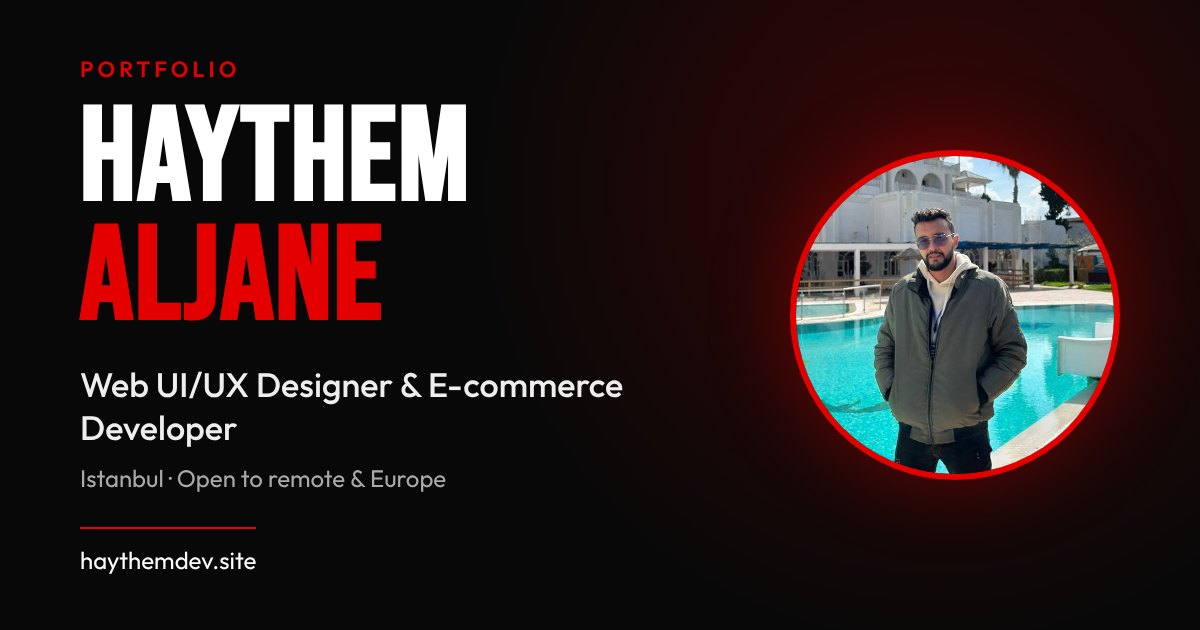
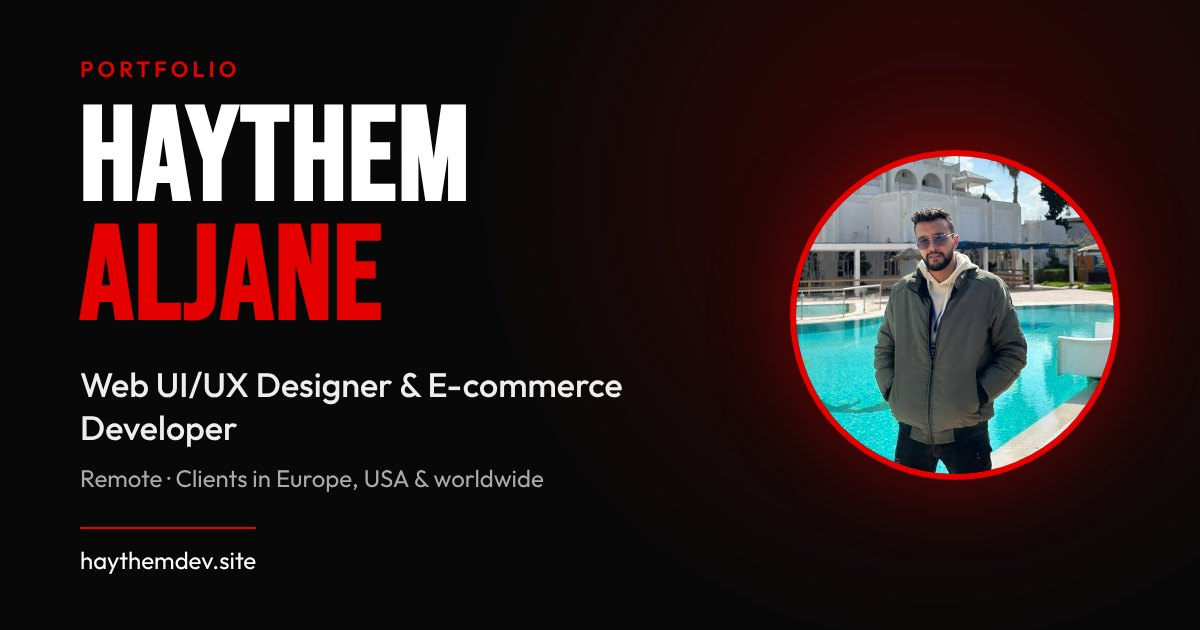
Position the site for remote, international clients
Replace Istanbul-specific wording with remote work for clients in
Europe, the USA and worldwide: homepage title, meta and social tags,
hero, about, contact and footer; structured data (no city address,
languages from the CV); case studies; Turkish page; demo credit links
and descriptions; share image.

Claude-Session: https://claude.ai/code/session_01RriRdgBVwXzwgPDqU6tjot

Changed region(s): [[0.0617, 0.7238, 0.4625, 0.7841], [0.2467, 0.6032, 0.5242, 0.6333]]

diff --git a/public/demos/sushi-by-skhiri/index.html b/public/demos/sushi-by-skhiri/index.html
@@ -11,21 +11,21 @@
   <link href="https://cdn.jsdelivr.net/npm/remixicon@4.3.0/fonts/remixicon.css" rel="stylesheet" />
   <title>Sushi by Skhiri | Demo by Haythem Aljane</title>
 <!-- SEO (data-ha-seo) -->
-<meta name="description" content="One-page sushi restaurant website with popular dishes, gallery, newsletter section, and scroll animations. Built by Haythem Aljane, web UI/UX designer in…">
+<meta name="description" content="One-page sushi restaurant website with popular dishes, gallery, newsletter section, and scroll animations. Built by Haythem Aljane, remote web UI/UX designer.">
 <link rel="canonical" href="https://haythemdev.site/demos/sushi-by-skhiri/">
 <meta name="author" content="Haythem Aljane">
 <meta name="robots" content="index, follow, max-image-preview:large">
 <meta property="og:type" content="website">
 <meta property="og:site_name" content="Haythem Aljane">
 <meta property="og:title" content="Sushi by Skhiri | Demo by Haythem Aljane">
-<meta property="og:description" content="One-page sushi restaurant website with popular dishes, gallery, newsletter section, and scroll animations. Built by Haythem Aljane, web UI/UX designer in…">
+<meta property="og:description" content="One-page sushi restaurant website with popular dishes, gallery, newsletter section, and scroll animations. Built by Haythem Aljane, remote web UI/UX designer.">
 <meta property="og:url" content="https://haythemdev.site/demos/sushi-by-skhiri/">
 <meta property="og:image" content="https://haythemdev.site/images/projects/sushi-skhiri.webp">
 <meta name="twitter:card" content="summary_large_image">
 <meta name="twitter:title" content="Sushi by Skhiri | Demo by Haythem Aljane">
-<meta name="twitter:description" content="One-page sushi restaurant website with popular dishes, gallery, newsletter section, and scroll animations. Built by Haythem Aljane, web UI/UX designer in…">
+<meta name="twitter:description" content="One-page sushi restaurant website with popular dishes, gallery, newsletter section, and scroll animations. Built by Haythem Aljane, remote web UI/UX designer.">
 <meta name="twitter:image" content="https://haythemdev.site/images/projects/sushi-skhiri.webp">
-<script type="application/ld+json">{"@context": "https://schema.org", "@type": "CreativeWork", "name": "Sushi by Skhiri", "description": "One-page sushi restaurant website with popular dishes, gallery, newsletter section, and scroll animations. Built by Haythem Aljane, web UI/UX designer in…", "url": "https://haythemdev.site/demos/sushi-by-skhiri/", "image": "https://haythemdev.site/images/projects/sushi-skhiri.webp", "author": {"@type": "Person", "@id": "https://haythemdev.site/#person", "name": "Haythem Aljane", "url": "https://haythemdev.site/"}, "isPartOf": {"@id": "https://haythemdev.site/#website"}, "keywords": "HTML5, CSS3, JavaScript, ScrollReveal"}</script>
+<script type="application/ld+json">{"@context": "https://schema.org", "@type": "CreativeWork", "name": "Sushi by Skhiri", "description": "One-page sushi restaurant website with popular dishes, gallery, newsletter section, and scroll animations. Built by Haythem Aljane, remote web UI/UX designer.", "url": "https://haythemdev.site/demos/sushi-by-skhiri/", "image": "https://haythemdev.site/images/projects/sushi-skhiri.webp", "author": {"@type": "Person", "@id": "https://haythemdev.site/#person", "name": "Haythem Aljane", "url": "https://haythemdev.site/"}, "isPartOf": {"@id": "https://haythemdev.site/#website"}, "keywords": "HTML5, CSS3, JavaScript, ScrollReveal"}</script>
 
 </head>
 
@@ -341,7 +341,7 @@
   <script src="assets/js/scrollreveal.min.js"></script>
   <script defer type="text/javascript" src="assets/js/main.js"></script>
 
-<a data-ha-seo href="https://haythemdev.site/#projects" title="More work by Haythem Aljane, web UI/UX designer in Istanbul" style="position:fixed;left:12px;bottom:12px;z-index:2147483647;font:500 12px/1.2 system-ui,-apple-system,Segoe UI,sans-serif;color:#fff;background:rgba(8,8,8,.85);border:1px solid rgba(229,0,0,.65);padding:7px 12px;border-radius:999px;text-decoration:none;letter-spacing:.2px;box-shadow:0 4px 14px rgba(0,0,0,.35)">Demo by Haythem Aljane ↗</a>
+<a data-ha-seo href="https://haythemdev.site/#projects" title="More work by Haythem Aljane, remote web UI/UX designer" style="position:fixed;left:12px;bottom:12px;z-index:2147483647;font:500 12px/1.2 system-ui,-apple-system,Segoe UI,sans-serif;color:#fff;background:rgba(8,8,8,.85);border:1px solid rgba(229,0,0,.65);padding:7px 12px;border-radius:999px;text-decoration:none;letter-spacing:.2px;box-shadow:0 4px 14px rgba(0,0,0,.35)">Demo by Haythem Aljane ↗</a>
 </body>
 
 </html>

diff --git a/public/demos/chinchin/index.html b/public/demos/chinchin/index.html
@@ -5,21 +5,21 @@
     <meta charset="utf-8">
     <title>Chinchin Restaurant Website | Demo by Haythem Aljane</title>
 <!-- SEO (data-ha-seo) -->
-<meta name="description" content="Responsive restaurant website that presents the brand, menu, and customer experience in a modern layout. Built by Haythem Aljane, web UI/UX designer in…">
+<meta name="description" content="Responsive restaurant website that presents the brand, menu, and customer experience in a modern layout. Built by Haythem Aljane, remote web UI/UX designer.">
 <link rel="canonical" href="https://haythemdev.site/demos/chinchin/">
 <meta name="author" content="Haythem Aljane">
 <meta name="robots" content="index, follow, max-image-preview:large">
 <meta property="og:type" content="website">
 <meta property="og:site_name" content="Haythem Aljane">
 <meta property="og:title" content="Chinchin Restaurant Website | Demo by Haythem Aljane">
-<meta property="og:description" content="Responsive restaurant website that presents the brand, menu, and customer experience in a modern layout. Built by Haythem Aljane, web UI/UX designer in…">
+<meta property="og:description" content="Responsive restaurant website that presents the brand, menu, and customer experience in a modern layout. Built by Haythem Aljane, remote web UI/UX designer.">
 <meta property="og:url" content="https://haythemdev.site/demos/chinchin/">
 <meta property="og:image" content="https://haythemdev.site/images/projects/chinchin-home.webp">
 <meta name="twitter:card" content="summary_large_image">
 <meta name="twitter:title" content="Chinchin Restaurant Website | Demo by Haythem Aljane">
-<meta name="twitter:description" content="Responsive restaurant website that presents the brand, menu, and customer experience in a modern layout. Built by Haythem Aljane, web UI/UX designer in…">
+<meta name="twitter:description" content="Responsive restaurant website that presents the brand, menu, and customer experience in a modern layout. Built by Haythem Aljane, remote web UI/UX designer.">
 <meta name="twitter:image" content="https://haythemdev.site/images/projects/chinchin-home.webp">
-<script type="application/ld+json">{"@context": "https://schema.org", "@type": "CreativeWork", "name": "Chinchin Restaurant Website", "description": "Responsive restaurant website that presents the brand, menu, and customer experience in a modern layout. Built by Haythem Aljane, web UI/UX designer in…", "url": "https://haythemdev.site/demos/chinchin/", "image": "https://haythemdev.site/images/projects/chinchin-home.webp", "author": {"@type": "Person", "@id": "https://haythemdev.site/#person", "name": "Haythem Aljane", "url": "https://haythemdev.site/"}, "isPartOf": {"@id": "https://haythemdev.site/#website"}, "keywords": "HTML, CSS, JavaScript"}</script>
+<script type="application/ld+json">{"@context": "https://schema.org", "@type": "CreativeWork", "name": "Chinchin Restaurant Website", "description": "Responsive restaurant website that presents the brand, menu, and customer experience in a modern layout. Built by Haythem Aljane, remote web UI/UX designer.", "url": "https://haythemdev.site/demos/chinchin/", "image": "https://haythemdev.site/images/projects/chinchin-home.webp", "author": {"@type": "Person", "@id": "https://haythemdev.site/#person", "name": "Haythem Aljane", "url": "https://haythemdev.site/"}, "isPartOf": {"@id": "https://haythemdev.site/#website"}, "keywords": "HTML, CSS, JavaScript"}</script>
 
     <meta content="width=device-width, initial-scale=1.0" name="viewport">
     <meta content="Free HTML Templates" name="keywords">
@@ -458,7 +458,7 @@
     <!-- Template Javascript -->
     <script src="js/main.js"></script>
 
-<a data-ha-seo href="https://haythemdev.site/#projects" title="More work by Haythem Aljane, web UI/UX designer in Istanbul" style="position:fixed;left:12px;bottom:12px;z-index:2147483647;font:500 12px/1.2 system-ui,-apple-system,Segoe UI,sans-serif;color:#fff;background:rgba(8,8,8,.85);border:1px solid rgba(229,0,0,.65);padding:7px 12px;border-radius:999px;text-decoration:none;letter-spacing:.2px;box-shadow:0 4px 14px rgba(0,0,0,.35)">Demo by Haythem Aljane ↗</a>
+<a data-ha-seo href="https://haythemdev.site/#projects" title="More work by Haythem Aljane, remote web UI/UX designer" style="position:fixed;left:12px;bottom:12px;z-index:2147483647;font:500 12px/1.2 system-ui,-apple-system,Segoe UI,sans-serif;color:#fff;background:rgba(8,8,8,.85);border:1px solid rgba(229,0,0,.65);padding:7px 12px;border-radius:999px;text-decoration:none;letter-spacing:.2px;box-shadow:0 4px 14px rgba(0,0,0,.35)">Demo by Haythem Aljane ↗</a>
 </body>
 
 </html>

diff --git a/public/demos/daylight-board/index.html b/public/demos/daylight-board/index.html
@@ -6,21 +6,21 @@
   <meta name="theme-color" content="#f5f6f3">
   <title>Daylight Task Board | Demo by Haythem Aljane</title>
 <!-- SEO (data-ha-seo) -->
-<meta name="description" content="Responsive task dashboard with task creation, status filters, completion controls, and browser-local saving. Built by Haythem Aljane, web UI/UX designer in…">
+<meta name="description" content="Responsive task dashboard with task creation, status filters, completion controls, and browser-local saving. Built by Haythem Aljane, remote web UI/UX designer.">
 <link rel="canonical" href="https://haythemdev.site/demos/daylight-board/">
 <meta name="author" content="Haythem Aljane">
 <meta name="robots" content="index, follow, max-image-preview:large">
 <meta property="og:type" content="website">
 <meta property="og:site_name" content="Haythem Aljane">
 <meta property="og:title" content="Daylight Task Board | Demo by Haythem Aljane">
-<meta property="og:description" content="Responsive task dashboard with task creation, status filters, completion controls, and browser-local saving. Built by Haythem Aljane, web UI/UX designer in…">
+<meta property="og:description" content="Responsive task dashboard with task creation, status filters, completion controls, and browser-local saving. Built by Haythem Aljane, remote web UI/UX designer.">
 <meta property="og:url" content="https://haythemdev.site/demos/daylight-board/">
 <meta property="og:image" content="https://haythemdev.site/images/og-cover.jpg">
 <meta name="twitter:card" content="summary_large_image">
 <meta name="twitter:title" content="Daylight Task Board | Demo by Haythem Aljane">
-<meta name="twitter:description" content="Responsive task dashboard with task creation, status filters, completion controls, and browser-local saving. Built by Haythem Aljane, web UI/UX designer in…">
+<meta name="twitter:description" content="Responsive task dashboard with task creation, status filters, completion controls, and browser-local saving. Built by Haythem Aljane, remote web UI/UX designer.">
 <meta name="twitter:image" content="https://haythemdev.site/images/og-cover.jpg">
-<script type="application/ld+json">{"@context": "https://schema.org", "@type": "CreativeWork", "name": "Daylight Task Board", "description": "Responsive task dashboard with task creation, status filters, completion controls, and browser-local saving. Built by Haythem Aljane, web UI/UX designer in…", "url": "https://haythemdev.site/demos/daylight-board/", "image": "https://haythemdev.site/images/og-cover.jpg", "author": {"@type": "Person", "@id": "https://haythemdev.site/#person", "name": "Haythem Aljane", "url": "https://haythemdev.site/"}, "isPartOf": {"@id": "https://haythemdev.site/#website"}, "keywords": "HTML, CSS, JavaScript, localStorage"}</script>
+<script type="application/ld+json">{"@context": "https://schema.org", "@type": "CreativeWork", "name": "Daylight Task Board", "description": "Responsive task dashboard with task creation, status filters, completion controls, and browser-local saving. Built by Haythem Aljane, remote web UI/UX designer.", "url": "https://haythemdev.site/demos/daylight-board/", "image": "https://haythemdev.site/images/og-cover.jpg", "author": {"@type": "Person", "@id": "https://haythemdev.site/#person", "name": "Haythem Aljane", "url": "https://haythemdev.site/"}, "isPartOf": {"@id": "https://haythemdev.site/#website"}, "keywords": "HTML, CSS, JavaScript, localStorage"}</script>
 
   <style>
     :root{--ink:#27302a;--muted:#7b847e;--paper:#f5f6f3;--white:#fff;--green:#5d8065;--pale:#e7eee6;--line:#e5e9e3;--amber:#f1dfb2;--rose:#f3e1dc;--blue:#e1eaf1}
@@ -90,6 +90,6 @@
     render();
   </script>
 
-<a data-ha-seo href="https://haythemdev.site/#projects" title="More work by Haythem Aljane, web UI/UX designer in Istanbul" style="position:fixed;left:12px;bottom:12px;z-index:2147483647;font:500 12px/1.2 system-ui,-apple-system,Segoe UI,sans-serif;color:#fff;background:rgba(8,8,8,.85);border:1px solid rgba(229,0,0,.65);padding:7px 12px;border-radius:999px;text-decoration:none;letter-spacing:.2px;box-shadow:0 4px 14px rgba(0,0,0,.35)">Demo by Haythem Aljane ↗</a>
+<a data-ha-seo href="https://haythemdev.site/#projects" title="More work by Haythem Aljane, remote web UI/UX designer" style="position:fixed;left:12px;bottom:12px;z-index:2147483647;font:500 12px/1.2 system-ui,-apple-system,Segoe UI,sans-serif;color:#fff;background:rgba(8,8,8,.85);border:1px solid rgba(229,0,0,.65);padding:7px 12px;border-radius:999px;text-decoration:none;letter-spacing:.2px;box-shadow:0 4px 14px rgba(0,0,0,.35)">Demo by Haythem Aljane ↗</a>
 </body>
 </html>

diff --git a/public/demos/animated-portfolio/index.html b/public/demos/animated-portfolio/index.html
@@ -108,6 +108,6 @@ const io=new IntersectionObserver(es=>es.forEach(e=>e.isIntersecting&&e.target.c
 const cur=document.getElementById('cur');addEventListener('mousemove',e=>{cur.style.left=e.clientX+'px';cur.style.top=e.clientY+'px'});document.querySelectorAll('a,button').forEach(a=>{a.onmouseenter=()=>cur.classList.add('big');a.onmouseleave=()=>cur.classList.remove('big')});
 </script>
 
-<a data-ha-seo href="https://haythemdev.site/#projects" title="More work by Haythem Aljane, web UI/UX designer in Istanbul" style="position:fixed;left:12px;bottom:12px;z-index:2147483647;font:500 12px/1.2 system-ui,-apple-system,Segoe UI,sans-serif;color:#fff;background:rgba(8,8,8,.85);border:1px solid rgba(229,0,0,.65);padding:7px 12px;border-radius:999px;text-decoration:none;letter-spacing:.2px;box-shadow:0 4px 14px rgba(0,0,0,.35)">Demo by Haythem Aljane ↗</a>
+<a data-ha-seo href="https://haythemdev.site/#projects" title="More work by Haythem Aljane, remote web UI/UX designer" style="position:fixed;left:12px;bottom:12px;z-index:2147483647;font:500 12px/1.2 system-ui,-apple-system,Segoe UI,sans-serif;color:#fff;background:rgba(8,8,8,.85);border:1px solid rgba(229,0,0,.65);padding:7px 12px;border-radius:999px;text-decoration:none;letter-spacing:.2px;box-shadow:0 4px 14px rgba(0,0,0,.35)">Demo by Haythem Aljane ↗</a>
 </body>
 </html>

diff --git a/public/demos/marketday/index.html b/public/demos/marketday/index.html
@@ -55,6 +55,6 @@
     document.getElementById('cart').addEventListener('click',()=>{toast.textContent=bag?bag+' item'+(bag===1?'':'s')+' in your bag':'Your bag is empty';toast.classList.add('show');clearTimeout(timer);timer=setTimeout(()=>toast.classList.remove('show'),1900);});
   </script>
 
-<a data-ha-seo href="https://haythemdev.site/#projects" title="More work by Haythem Aljane, web UI/UX designer in Istanbul" style="position:fixed;left:12px;bottom:12px;z-index:2147483647;font:500 12px/1.2 system-ui,-apple-system,Segoe UI,sans-serif;color:#fff;background:rgba(8,8,8,.85);border:1px solid rgba(229,0,0,.65);padding:7px 12px;border-radius:999px;text-decoration:none;letter-spacing:.2px;box-shadow:0 4px 14px rgba(0,0,0,.35)">Demo by Haythem Aljane ↗</a>
+<a data-ha-seo href="https://haythemdev.site/#projects" title="More work by Haythem Aljane, remote web UI/UX designer" style="position:fixed;left:12px;bottom:12px;z-index:2147483647;font:500 12px/1.2 system-ui,-apple-system,Segoe UI,sans-serif;color:#fff;background:rgba(8,8,8,.85);border:1px solid rgba(229,0,0,.65);padding:7px 12px;border-radius:999px;text-decoration:none;letter-spacing:.2px;box-shadow:0 4px 14px rgba(0,0,0,.35)">Demo by Haythem Aljane ↗</a>
 </body>
 </html>

diff --git a/public/demos/yolo-vision-api/index.html b/public/demos/yolo-vision-api/index.html
@@ -102,6 +102,6 @@ $('#run').onclick=()=>{const th=+$('#th').value,btn=$('#run');btn.disabled=true;
 draw();addEventListener('resize',()=>{if($('#boxes').children.length)$('#run').click()});
 </script>
 
-<a data-ha-seo href="https://haythemdev.site/#projects" title="More work by Haythem Aljane, web UI/UX designer in Istanbul" style="position:fixed;left:12px;bottom:12px;z-index:2147483647;font:500 12px/1.2 system-ui,-apple-system,Segoe UI,sans-serif;color:#fff;background:rgba(8,8,8,.85);border:1px solid rgba(229,0,0,.65);padding:7px 12px;border-radius:999px;text-decoration:none;letter-spacing:.2px;box-shadow:0 4px 14px rgba(0,0,0,.35)">Demo by Haythem Aljane ↗</a>
+<a data-ha-seo href="https://haythemdev.site/#projects" title="More work by Haythem Aljane, remote web UI/UX designer" style="position:fixed;left:12px;bottom:12px;z-index:2147483647;font:500 12px/1.2 system-ui,-apple-system,Segoe UI,sans-serif;color:#fff;background:rgba(8,8,8,.85);border:1px solid rgba(229,0,0,.65);padding:7px 12px;border-radius:999px;text-decoration:none;letter-spacing:.2px;box-shadow:0 4px 14px rgba(0,0,0,.35)">Demo by Haythem Aljane ↗</a>
 </body>
 </html>

diff --git a/public/demos/northline-studio/index.html b/public/demos/northline-studio/index.html
@@ -50,6 +50,6 @@
     links.querySelectorAll('a').forEach(link=>link.addEventListener('click',()=>{links.classList.remove('open');menu.setAttribute('aria-expanded','false');}));
   </script>
 
-<a data-ha-seo href="https://haythemdev.site/#projects" title="More work by Haythem Aljane, web UI/UX designer in Istanbul" style="position:fixed;left:12px;bottom:12px;z-index:2147483647;font:500 12px/1.2 system-ui,-apple-system,Segoe UI,sans-serif;color:#fff;background:rgba(8,8,8,.85);border:1px solid rgba(229,0,0,.65);padding:7px 12px;border-radius:999px;text-decoration:none;letter-spacing:.2px;box-shadow:0 4px 14px rgba(0,0,0,.35)">Demo by Haythem Aljane ↗</a>
+<a data-ha-seo href="https://haythemdev.site/#projects" title="More work by Haythem Aljane, remote web UI/UX designer" style="position:fixed;left:12px;bottom:12px;z-index:2147483647;font:500 12px/1.2 system-ui,-apple-system,Segoe UI,sans-serif;color:#fff;background:rgba(8,8,8,.85);border:1px solid rgba(229,0,0,.65);padding:7px 12px;border-radius:999px;text-decoration:none;letter-spacing:.2px;box-shadow:0 4px 14px rgba(0,0,0,.35)">Demo by Haythem Aljane ↗</a>
 </body>
 </html>

diff --git a/public/demos/brand-identity/index.html b/public/demos/brand-identity/index.html
@@ -60,6 +60,6 @@ footer{padding:26px 6vw;border-top:1px solid var(--line);color:var(--muted);font
 </div>
 <footer><span>Illustrator · Photoshop</span><span>Haythem Aljane</span></footer>
 
-<a data-ha-seo href="https://haythemdev.site/#projects" title="More work by Haythem Aljane, web UI/UX designer in Istanbul" style="position:fixed;left:12px;bottom:12px;z-index:2147483647;font:500 12px/1.2 system-ui,-apple-system,Segoe UI,sans-serif;color:#fff;background:rgba(8,8,8,.85);border:1px solid rgba(229,0,0,.65);padding:7px 12px;border-radius:999px;text-decoration:none;letter-spacing:.2px;box-shadow:0 4px 14px rgba(0,0,0,.35)">Demo by Haythem Aljane ↗</a>
+<a data-ha-seo href="https://haythemdev.site/#projects" title="More work by Haythem Aljane, remote web UI/UX designer" style="position:fixed;left:12px;bottom:12px;z-index:2147483647;font:500 12px/1.2 system-ui,-apple-system,Segoe UI,sans-serif;color:#fff;background:rgba(8,8,8,.85);border:1px solid rgba(229,0,0,.65);padding:7px 12px;border-radius:999px;text-decoration:none;letter-spacing:.2px;box-shadow:0 4px 14px rgba(0,0,0,.35)">Demo by Haythem Aljane ↗</a>
 </body>
 </html>

diff --git a/public/demos/graphic-design/index.html b/public/demos/graphic-design/index.html
@@ -98,6 +98,6 @@ document.querySelectorAll('[data-zoom]').forEach(i=>i.onclick=()=>{lbi.src=i.src
 lb.onclick=()=>lb.classList.remove('on');
 </script>
 
-<a data-ha-seo href="https://haythemdev.site/#projects" title="More work by Haythem Aljane, web UI/UX designer in Istanbul" style="position:fixed;left:12px;bottom:12px;z-index:2147483647;font:500 12px/1.2 system-ui,-apple-system,Segoe UI,sans-serif;color:#fff;background:rgba(8,8,8,.85);border:1px solid rgba(229,0,0,.65);padding:7px 12px;border-radius:999px;text-decoration:none;letter-spacing:.2px;box-shadow:0 4px 14px rgba(0,0,0,.35)">Demo by Haythem Aljane ↗</a>
+<a data-ha-seo href="https://haythemdev.site/#projects" title="More work by Haythem Aljane, remote web UI/UX designer" style="position:fixed;left:12px;bottom:12px;z-index:2147483647;font:500 12px/1.2 system-ui,-apple-system,Segoe UI,sans-serif;color:#fff;background:rgba(8,8,8,.85);border:1px solid rgba(229,0,0,.65);padding:7px 12px;border-radius:999px;text-decoration:none;letter-spacing:.2px;box-shadow:0 4px 14px rgba(0,0,0,.35)">Demo by Haythem Aljane ↗</a>
 </body>
 </html>

diff --git a/public/demos/darna-guest-house/index.html b/public/demos/darna-guest-house/index.html
@@ -386,7 +386,7 @@
     <script src="vendors/lightbox/simpleLightbox.min.js"></script>
     <script src="js/custom.js"></script>
 
-<a data-ha-seo href="https://haythemdev.site/#projects" title="More work by Haythem Aljane, web UI/UX designer in Istanbul" style="position:fixed;left:12px;bottom:12px;z-index:2147483647;font:500 12px/1.2 system-ui,-apple-system,Segoe UI,sans-serif;color:#fff;background:rgba(8,8,8,.85);border:1px solid rgba(229,0,0,.65);padding:7px 12px;border-radius:999px;text-decoration:none;letter-spacing:.2px;box-shadow:0 4px 14px rgba(0,0,0,.35)">Demo by Haythem Aljane ↗</a>
+<a data-ha-seo href="https://haythemdev.site/#projects" title="More work by Haythem Aljane, remote web UI/UX designer" style="position:fixed;left:12px;bottom:12px;z-index:2147483647;font:500 12px/1.2 system-ui,-apple-system,Segoe UI,sans-serif;color:#fff;background:rgba(8,8,8,.85);border:1px solid rgba(229,0,0,.65);padding:7px 12px;border-radius:999px;text-decoration:none;letter-spacing:.2px;box-shadow:0 4px 14px rgba(0,0,0,.35)">Demo by Haythem Aljane ↗</a>
 </body>
 
 </html>

diff --git a/public/demos/react-store/index.html b/public/demos/react-store/index.html
@@ -109,6 +109,6 @@ root.addEventListener('input',e=>{if(e.target.id==='q')set({q:e.target.value});i
 render();
 </script>
 
-<a data-ha-seo href="https://haythemdev.site/#projects" title="More work by Haythem Aljane, web UI/UX designer in Istanbul" style="position:fixed;left:12px;bottom:12px;z-index:2147483647;font:500 12px/1.2 system-ui,-apple-system,Segoe UI,sans-serif;color:#fff;background:rgba(8,8,8,.85);border:1px solid rgba(229,0,0,.65);padding:7px 12px;border-radius:999px;text-decoration:none;letter-spacing:.2px;box-shadow:0 4px 14px rgba(0,0,0,.35)">Demo by Haythem Aljane ↗</a>
+<a data-ha-seo href="https://haythemdev.site/#projects" title="More work by Haythem Aljane, remote web UI/UX designer" style="position:fixed;left:12px;bottom:12px;z-index:2147483647;font:500 12px/1.2 system-ui,-apple-system,Segoe UI,sans-serif;color:#fff;background:rgba(8,8,8,.85);border:1px solid rgba(229,0,0,.65);padding:7px 12px;border-radius:999px;text-decoration:none;letter-spacing:.2px;box-shadow:0 4px 14px rgba(0,0,0,.35)">Demo by Haythem Aljane ↗</a>
 </body>
 </html>

diff --git a/public/demos/smoke-house/index.html b/public/demos/smoke-house/index.html
@@ -1223,7 +1223,7 @@
   <script nomodule src="https://unpkg.com/ionicons@5.5.2/dist/ionicons/ionicons.js"></script>
 
 
-<a data-ha-seo href="https://haythemdev.site/#projects" title="More work by Haythem Aljane, web UI/UX designer in Istanbul" style="position:fixed;left:12px;bottom:12px;z-index:2147483647;font:500 12px/1.2 system-ui,-apple-system,Segoe UI,sans-serif;color:#fff;background:rgba(8,8,8,.85);border:1px solid rgba(229,0,0,.65);padding:7px 12px;border-radius:999px;text-decoration:none;letter-spacing:.2px;box-shadow:0 4px 14px rgba(0,0,0,.35)">Demo by Haythem Aljane ↗</a>
+<a data-ha-seo href="https://haythemdev.site/#projects" title="More work by Haythem Aljane, remote web UI/UX designer" style="position:fixed;left:12px;bottom:12px;z-index:2147483647;font:500 12px/1.2 system-ui,-apple-system,Segoe UI,sans-serif;color:#fff;background:rgba(8,8,8,.85);border:1px solid rgba(229,0,0,.65);padding:7px 12px;border-radius:999px;text-decoration:none;letter-spacing:.2px;box-shadow:0 4px 14px rgba(0,0,0,.35)">Demo by Haythem Aljane ↗</a>
 </body>
 
 </html>
